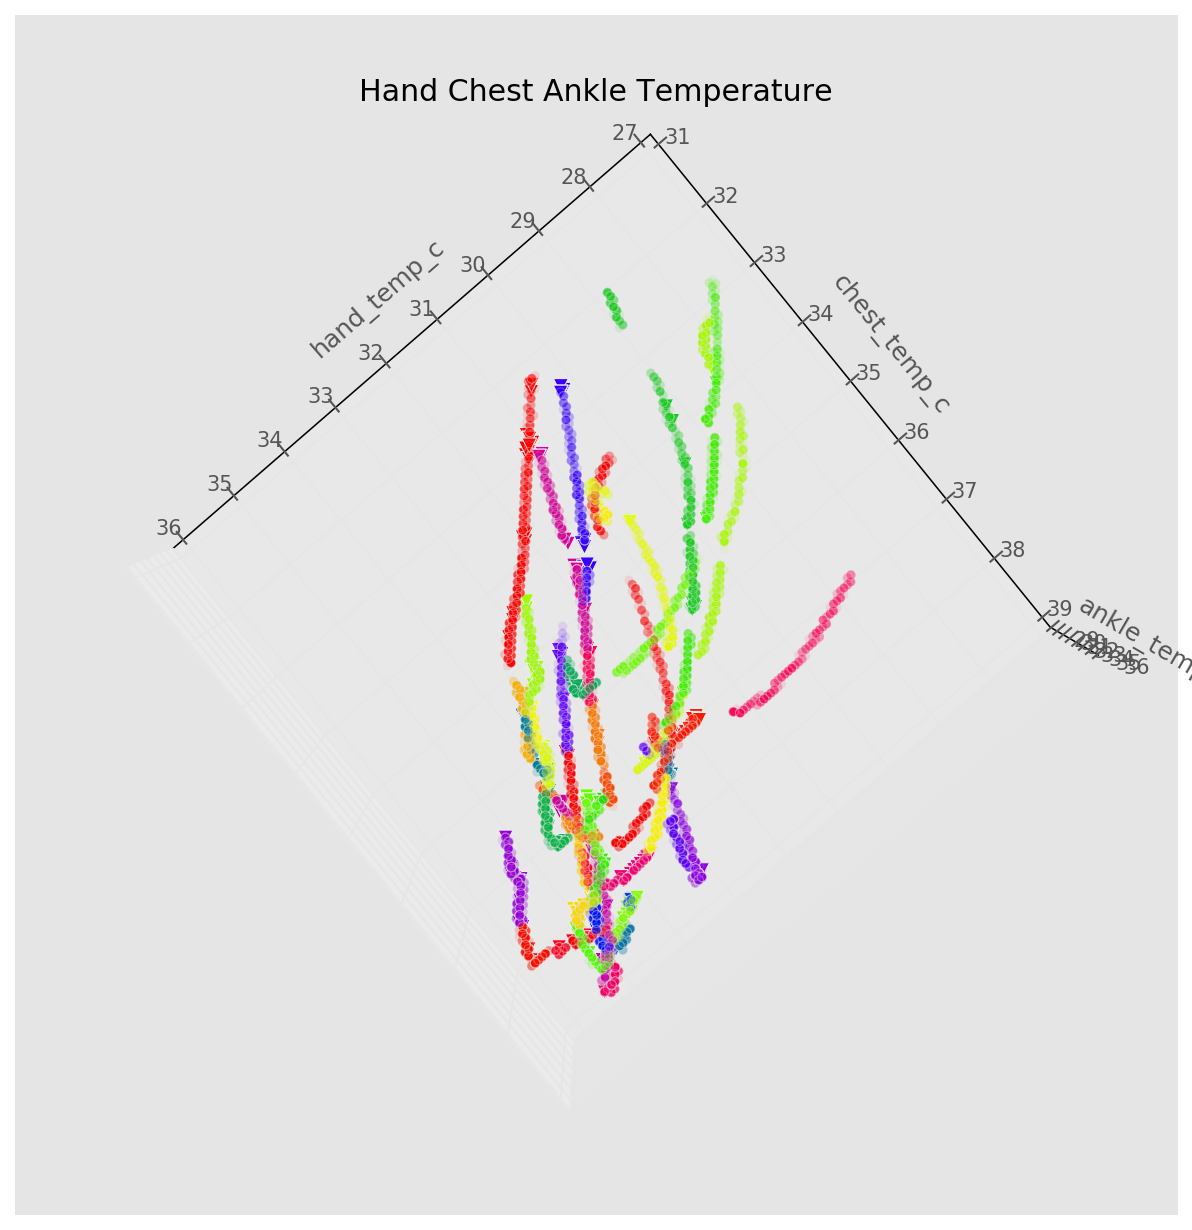
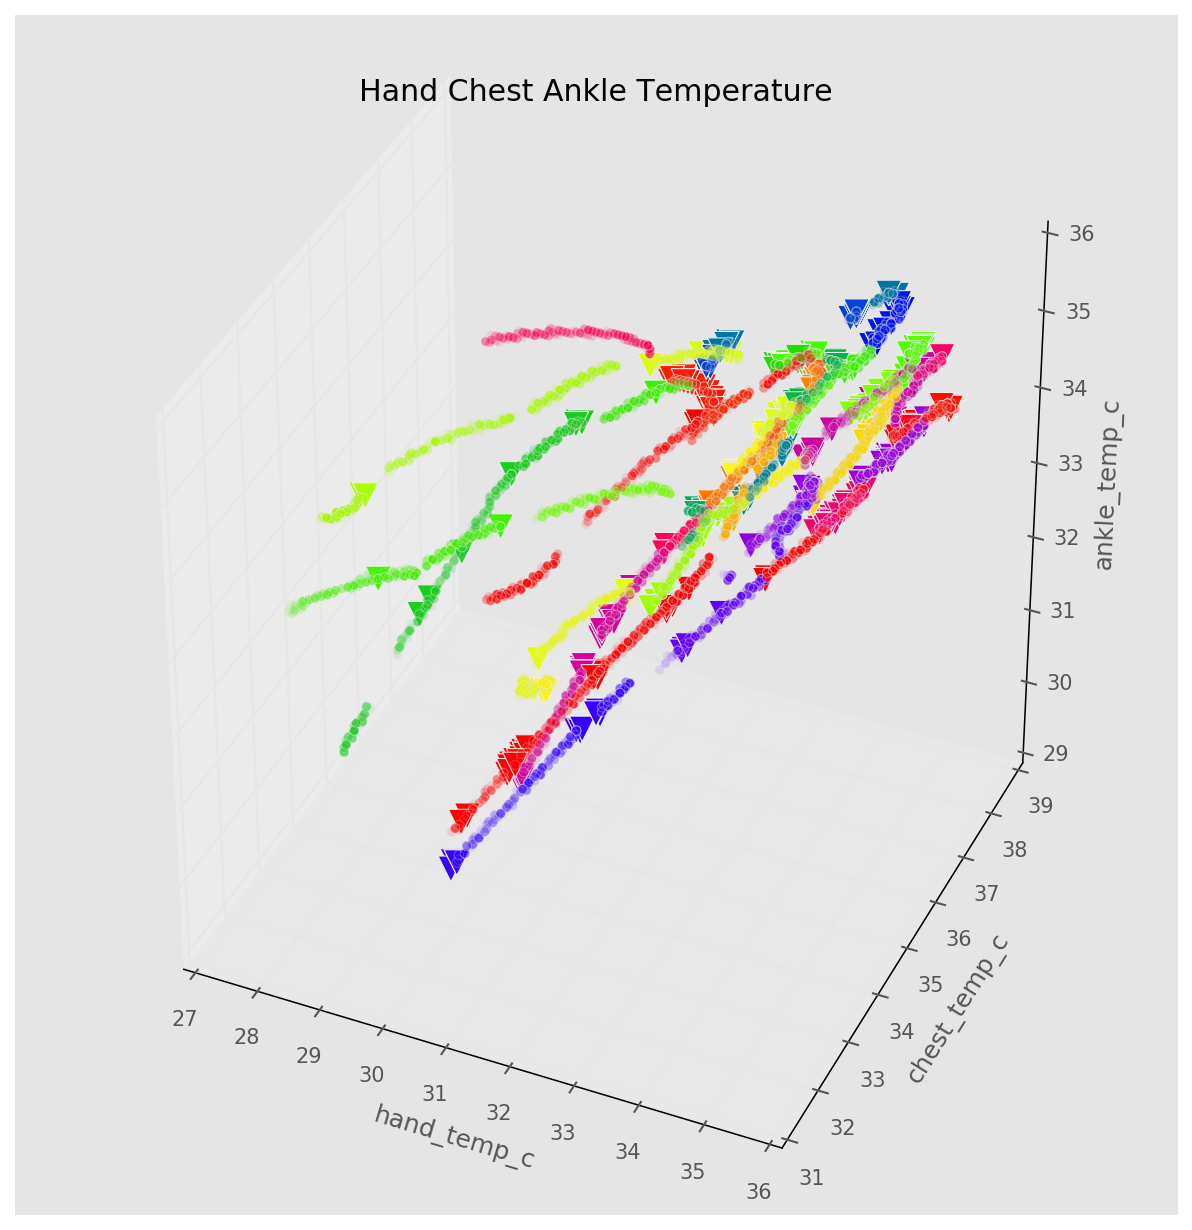
report final

diff --git a/code/08_final_plots.py b/code/08_final_plots.py
@@ -69,7 +69,7 @@ pca = PCA()
 dftr = pca.fit_transform(scaled_data)
 dftr = np.column_stack((dftr[:,0:3],df_small_true_subj_activity))
 
-fig = plt.figure(2, figsize=(10,10))
+fig = plt.figure(1, figsize=(10,10))
 ax = fig.add_subplot(1,1,1)
 ax.set_xlabel('Principal Component 1')
 ax.set_ylabel('Principal Component 2')
@@ -83,7 +83,7 @@ plt.savefig('../plots/pca_2components_classified.png', format='png', bbox_inches
 
 print('Plotting PCA 3 components ...')
 
-fig = plt.figure(3, figsize=(10,10))
+fig = plt.figure(2, figsize=(10,10))
 ax = fig.add_subplot(1,1,1, projection='3d')
 ax.set_xlabel('Principal Component 1')
 ax.set_ylabel('Principal Component 2')
@@ -105,17 +105,17 @@ print('Hand, Chest, Ankle plot ...')
 df_hca = df_small_readings.as_matrix()
 df_tsa = df_small_true_subj_activity.as_matrix()
 
-fig = plt.figure(4, figsize=(10,10))
+fig = plt.figure(3, figsize=(10,10))
 ax = fig.add_subplot(1,1,1, projection='3d')
 ax.set_xlabel('hand_temp_c')
 ax.set_ylabel('chest_temp_c')
 ax.set_zlabel('ankle_temp_c')
-ax.view_init(92,50)
+ax.view_init(36,-66)
 plt.title('Hand Chest Ankle Temperature')
 ax.scatter(df_hca[accurate][:,1], df_hca[accurate][:,11], df_hca[accurate][:,21],
            c=df_tsa[accurate],cmap=plt.cm.prism, marker='o', alpha=.1)
 ax.scatter(df_hca[~accurate][:,1], df_hca[~accurate][:,11], df_hca[~accurate][:,21],
-           c=df_tsa[~accurate],cmap=plt.cm.prism, marker='v', alpha=1, s= 50)
+           c=df_tsa[~accurate],cmap=plt.cm.prism, marker='v', alpha=1, s= 150)
 
 plt.savefig('../plots/hca_temp_classified.png', format='png', bbox_inches='tight', pad_inches=0.1,dpi=150)
 

diff --git a/report/report.md b/report/report.md
@@ -191,7 +191,7 @@ S -> A | 0.48 | 0.44 | 0.52 | (S+A) 11.11 + 14.54 = 25.65
 A -> S | 0.48 | 0.43 | 0.53 | (A+S) 15.19, 11.28 = 26.47
 Both | 0.63 | 0.58 | 0.67 | 113.79
 
-Training the model to predict both at the same time was significantly slower than training to predict subject then activity or vice versa. 
+Training the model to predict both at the same time was significantly slower than training to predict subject then activity or vice versa. This is due to the additional number of classes (different subject-activity combinition). 
 
 We can see that predicting both targets together produced best results. We took this further and used Grid Search Cross Validation was used to find the level of smoothing that produced the best results under the 'Both' condition.
 
@@ -211,21 +211,19 @@ The Gaussian Naive Bayes is generative model that is based on very simplistic ca
 
 Method | Accuracy | Time Taken (seconds)
 --- | --- | ---
-S > A | 0.40 | 0.63 + 0.63
-A > S | 0.50 | 0.63 + 0.59
-Both | 0.64 | 0.95
+S -> A | 0.4 | 0.5 + 0.52
+A -> S | 0.5 | 0.52 + 0.48
+Both | 0.64 | 0.74
 
-The efficiency of the model is evident in the time taken to train and test the model. It is more than 10 times faster than the SVM model in the S > A and A > S conditions and over 100 times faster under the 'Both' condition. Interestingly, Gaussian Naive Bayes does not necessarily outperform the tuned SVM model with SGD. However when we account for the efficiency of the model, it puts Gaussian Naive Bayes slightly ahead as its accuracy is almost on par to that of the SVM model.
+The efficiency of the model is evident in the time taken to train and test the model. It is more than 10 times faster than the SVM model in the S -> A and A -> S conditions and over 100 times faster under the 'Both' condition. Interestingly, Gaussian Naive Bayes does not necessarily outperform the tuned SVM model with SGD. However when we account for the efficiency of the model, it puts Gaussian Naive Bayes slightly ahead as its accuracy is almost on par to that of the SVM model.
 
-However, it is also important to note that Gaussian Naive Bayes is considered relatively immune to the 'Curse of Dimensionality'. This is largely due to its simplicity. Given this, it would be interesting to observe the model's performance using the original data, without PCA. As such, we ran Gaussian Naive Bayes model again, but without PCA.
+However, it is also important to note that Gaussian Naive Bayes is considered relatively immune to the 'Curse of Dimensionality'. This is largely due to its simplicity. Given this, it would be interesting to observe the model's performance using all dimensions in the original data, without PCA. As such, we ran Gaussian Naive Bayes model again, but without PCA. Both subject and activity were predicted at the same time as it is the best method.
 
 Method | Accuracy | Time Taken (seconds)
 --- | --- | ---
-S > A | 0.54 | 1.36, 1.27
-A > S | 0.54 | 1.43, 1.48
-Both | 0.96 | 1.81
+Both | 0.96 | 1.48
 
-The model under the 'Both' condition produced an accuracy of 0.96 with a slight drop in efficiency compared to its counterpart with PCA, presumably due to the increase in number of features used for training. The decrease in efficiency is not significant when compared to the increase in accuracy. This disproportionate trade-off in favour of accuracy has made this model an attractive one for our case.
+The model under the 'Both' condition produced an accuracy of 0.96 with a slight drop in efficiency compared to its counterpart with PCA, presumably due to the increase in number of features used for training. The decrease in efficiency is not significant when compared to the increase in accuracy. This disproportionate trade-off in favour of accuracy has made this model an attractive one for our case. Accuracy for training is the same at 0.96 and does not does the presence of overfitting. 
 
 As such, we selected this model to be our final model to be compared with a multi-output classifier shipped with `sklearn`.
 
@@ -235,9 +233,9 @@ In this comparison, the main objective is to compare the performance of two algo
 
 Method | Accuracy | Time Taken (seconds)
 --- | --- | ---
-Multi-Output | 0.96 | 1.81
+Multi-Output | 0.54 | 2.28
 
-The Gaussian Naive Bayes model with Multi-output Classifier produced an accuracy of **0.54** which took a duration of **2.75** seconds. This is significantly less performant than the standard classifier.
+The Gaussian Naive Bayes model with Multi-output Classifier produced an accuracy of **0.54** which took a duration of **2.28** seconds. This is significantly less performant than the standard classifier in terms of accuracy and duration. 
 
 The difference in performance could simply be the difference between the strategy adopted by the Multi-Output
 Classifier.
@@ -248,7 +246,7 @@ The k-fold cross validation was also performed to evaluate the Gaussian Naive Ba
 
  10-fold cross validation was used and the average accuracy of the Gaussian Naive Bayes model predicting both Subject and Activity at the same time is:
 
- This is similar to the results earlier.
+The average accuracy of the Gaussian Naive Bayes model predicting both subject and activity at the same time as an average accuracy of **0.9363**. The accuracy does not indicate the presence of overfitting.
 
 #### Visualizing the Classifications
 
@@ -258,16 +256,34 @@ To understand how the Gaussian Naive Bayes classify the data set, the principal 
 * Circles denote correctly predicted classes
 * Inverted triangles denote incorrectly predicted classes
 
+![PCA Table](../plots/pca_3components_classified.png)
 
+It seems that the classifier was quite good at predicting the points that are close together (shown in the PCA plot). Similar observations were made in the Hand Chest Ankle Temperature plot. 
+
+![hca plot](../plots/hca_temp_classified.png)
+
+Next we look at how well the classifier perform in classifying the subjects, activities and both subject-activity. 
+
+![subject plot](../plots/class_act_vs_pred_subj_seaborn.png)
+
+![activity plot](../plots/class_act_vs_pred_acti_seaborn.png)
+
+It seems that the classifier has problems classifying activities 12 and 13 which corresponds to Ascending Stairs and Descending Stairs. We can imagine these 2 activities to be quite similar which explains the error in classification. Lastly, we plot the subject-activity classification. 
+
+![both plot](../plots/class_act_vs_pred_subj_acti_seaborn.png)
+
+Similarly, we notice that the error tend to be predicting activities 12 and 13. 
 
 ## Conclusion
 
+Our study has also shown that:
 
-## Discussions
-
-Generalising this beyond the context of this dataset, this study has shown a few key points in comparing methods of classifying multi-output problems.
 * Gaussian Naive Bayes model without PCA tends to perform better, in terms of both accuracy and efficiency. This is especially so when sample size is large.
+* Linear SVM without SGD was very slow to train on this data set. 
+* SVM with SGD provided a performance boost, but could not compare with Gaussian Naive Bayes in terms of accuracy. 
+* The selected classifier (Gaussian Naive Bayes) have problems classifying Ascending and Descending Stairs. 
 * Concatenating the multiple outputs into one target variable with more unique levels performs better than trying to predict the target variables as standalone outputs.
+* In the application of machine learning algorithms, different trade offs such as accuracy, time taken to train needs to be considered.
 
 An interesting point to note is that the 'Both' condition consistently performed better than the other two methods across all models. Upon close consideration, this can be said to be an expected result. When predicting one target variable after the other, the errors made in predictions stack up. For example, in the case of S > A, the errors made in first predicting `'subject'` would then be carried over to wrongly predict `'activity_id'` as `'subject'` becomes part of the variable used to predict A.
 
